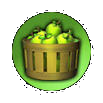
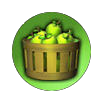
Validaciones para la creación de oferta en el comercio Limpiadas las imagenes de iconos de recursos

diff --git a/webapp/src/main/java/ar/edu/itba/paw/webapp/controller/CommerceController.java b/webapp/src/main/java/ar/edu/itba/paw/webapp/controller/CommerceController.java
@@ -67,6 +67,7 @@ public class CommerceController {
 			@ModelAttribute final User user){
 		ModelAndView mav = new ModelAndView("createOffer");
 		
+		mav.addObject("insuficientAmount",insuficientAmount);
 		mav.addObject("ratesList",es.getRates(user.getId()));
 		mav.addObject("resList",es.getResources(user.getId()));
 		
@@ -74,7 +75,9 @@ public class CommerceController {
 	}
 	
 	@RequestMapping(value="/commerce/create/submit", method = RequestMethod.POST)
-    public ModelAndView sumbitCreate(@RequestParam String giveType, @RequestParam String getType,@RequestParam String giveQty,@RequestParam String getQty,@ModelAttribute("user") final User user ){
+    public ModelAndView sumbitCreate(@RequestParam(required = false) String giveType, @RequestParam(required = false) String getType,@RequestParam(required = false) String giveQty,@RequestParam(required = false) String getQty,@ModelAttribute("user") final User user ){
+		if(getQty==null || giveQty==null || giveType==null || getType==null)
+			return new ModelAndView("redirect:/commerce/create");
 		if(!(Validator.isInteger(giveQty)&&Validator.isInteger(getQty)&&Integer.parseInt(giveQty)>0&&Integer.parseInt(getQty)>0)){
 			return new ModelAndView("redirect:/error");
 		}
